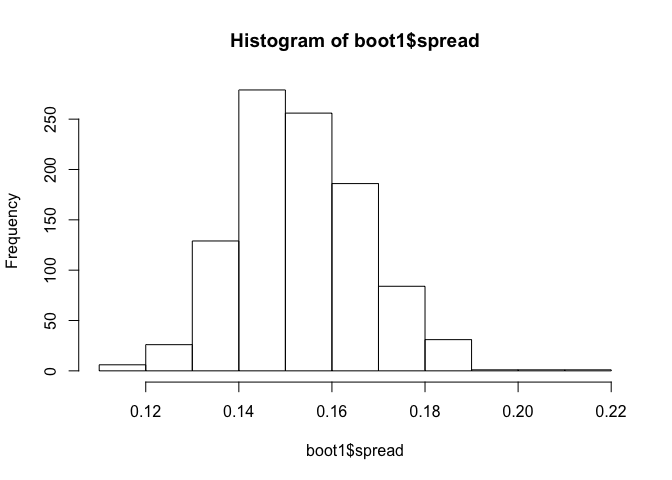
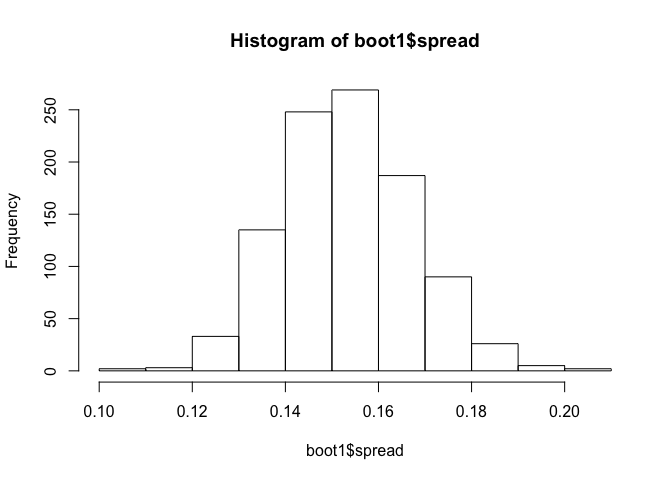
echo

diff --git a/teaching/r/bballbets/bballbets.md b/teaching/r/bballbets/bballbets.md
@@ -171,9 +171,9 @@ of at least two options. First, we can bootstrap:
 
     confint(boot1)
 
-    ##        name      lower     upper level method  estimate margin.of.error
-    ## 1 Intercept -0.1030404 0.3248073  0.95 stderr 0.1108834      0.21392384
-    ## 2    spread  0.1261455 0.1801104  0.95 stderr 0.1531279      0.02698244
+    ##        name       lower     upper level method  estimate margin.of.error
+    ## 1 Intercept -0.09519652 0.3289035  0.95 stderr 0.1168535      0.21205003
+    ## 2    spread  0.12615598 0.1806608  0.95 stderr 0.1534084      0.02725238
 
 We can also appeal to R's summary function, which computes confidence
 intervals under a normal approximation to the coefficients arising from
@@ -183,9 +183,9 @@ the central limit theorem:
 
     ## Waiting for profiling to be done...
 
-    ##                  2.5 %    97.5 %
-    ## (Intercept) -0.1104084 0.3352105
-    ## spread       0.1409962 0.2028006
+    ##                   2.5 %    97.5 %
+    ## (Intercept) 0.001569779 0.4584173
+    ## spread      0.141979865 0.2037390
 
 In this case, the confidence intervals are similar for the two
 techniques.
